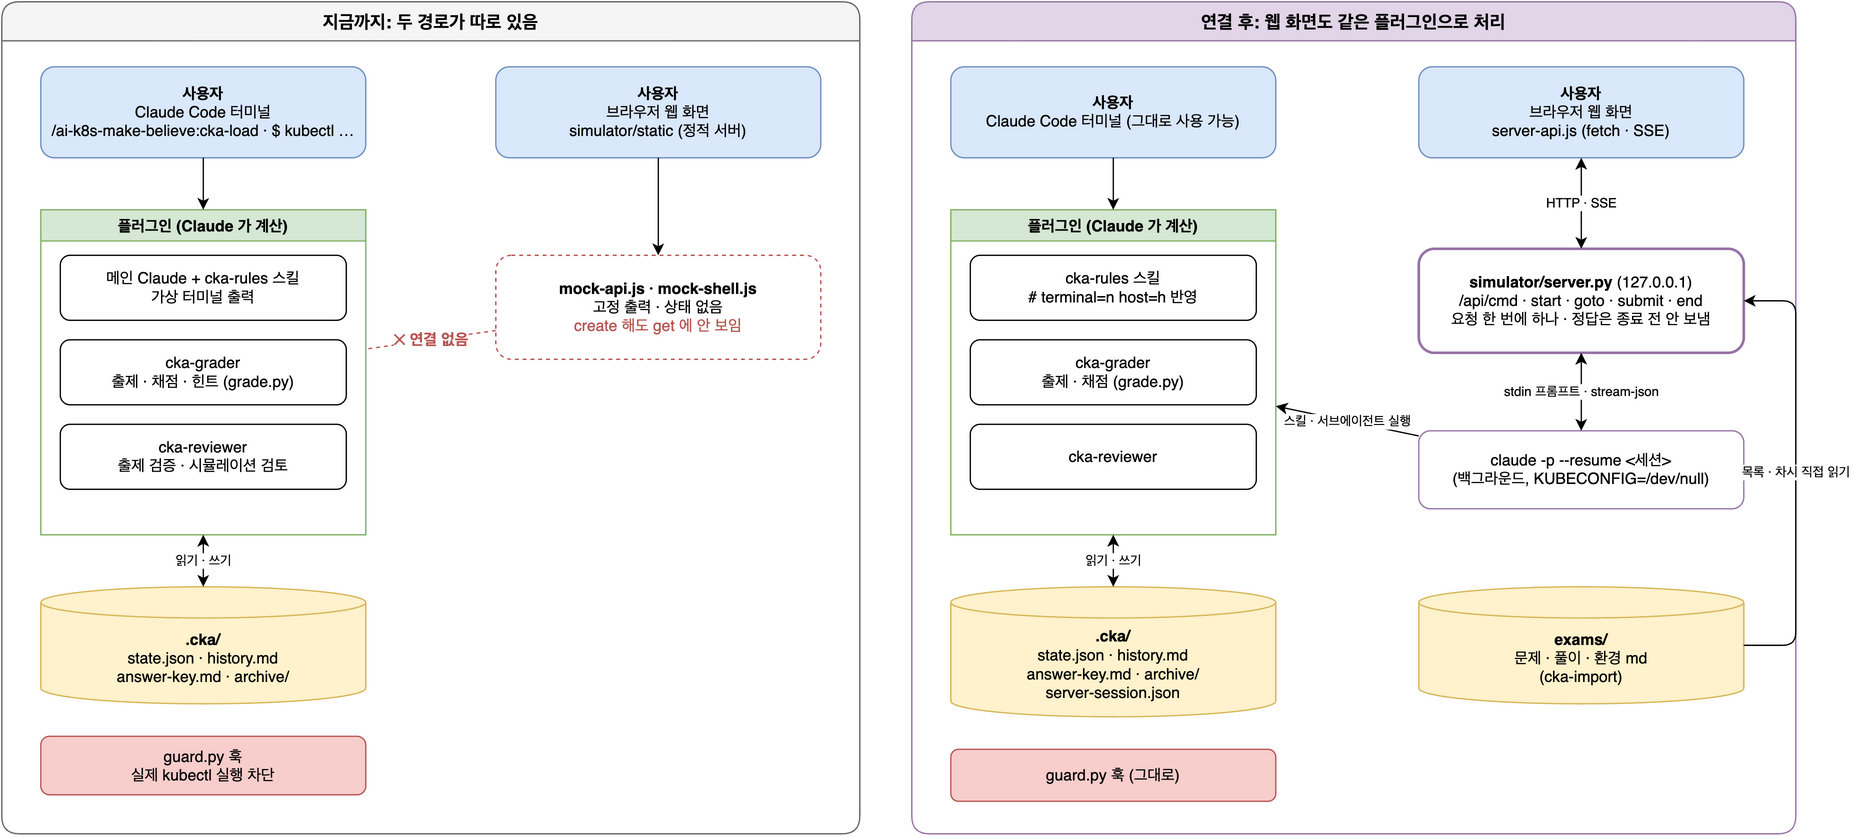
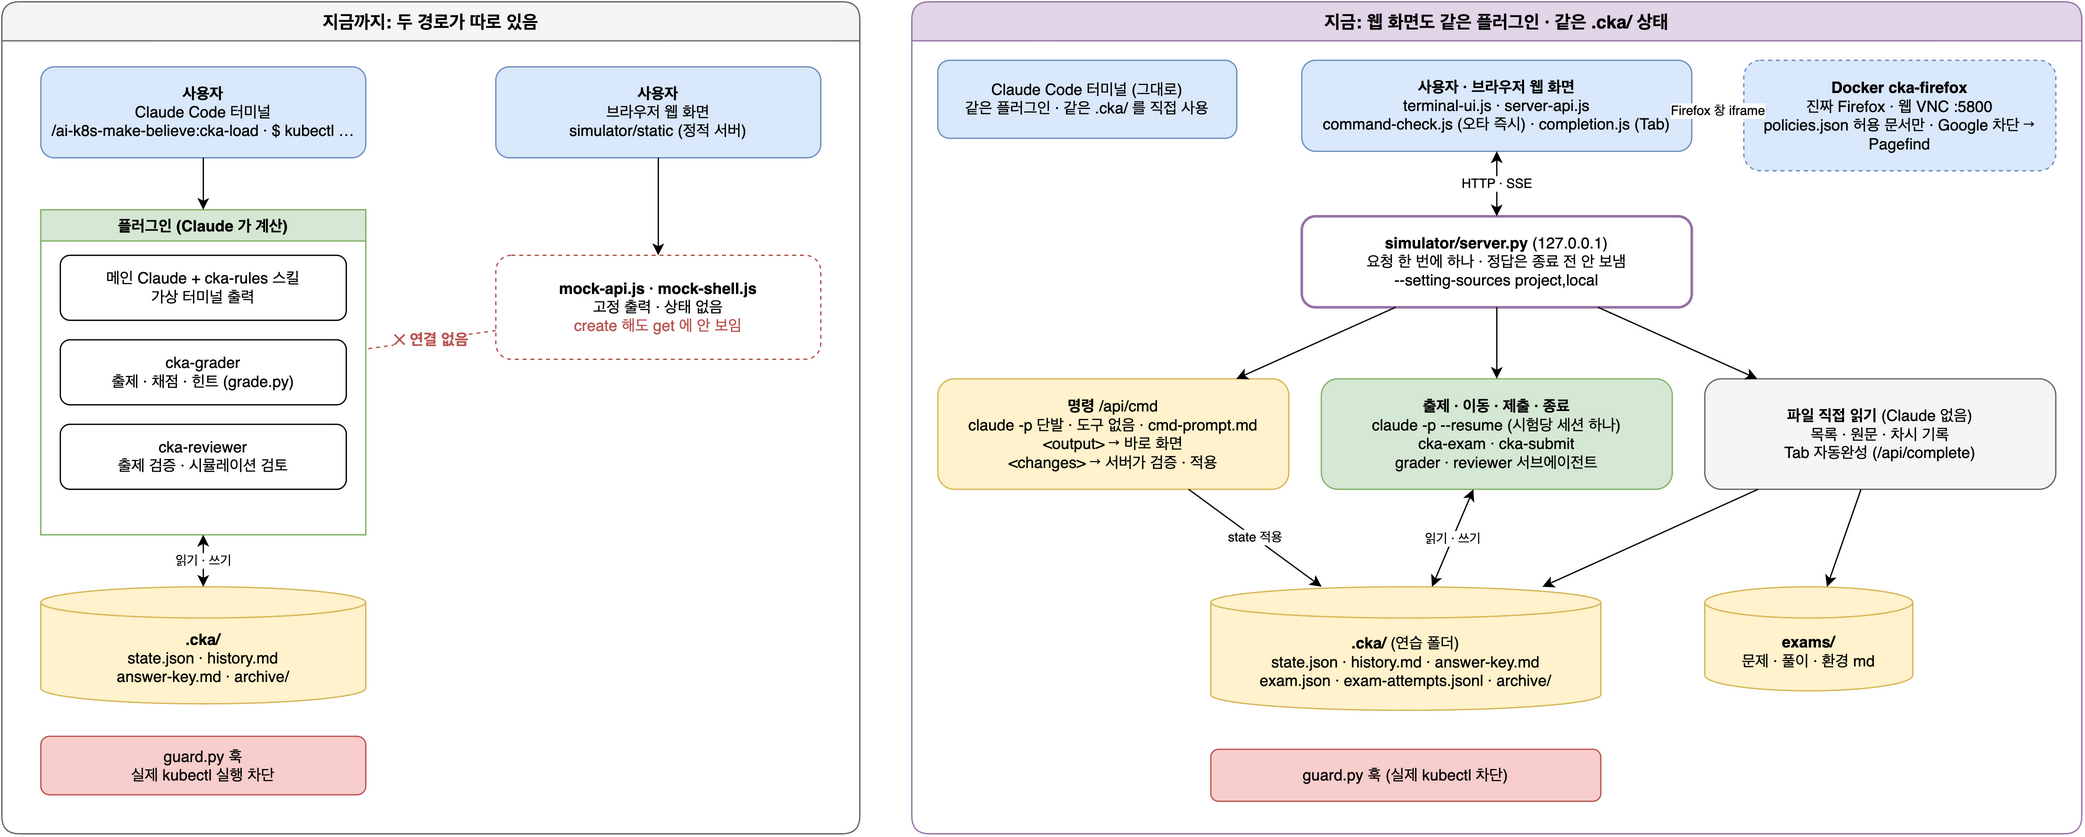
UIUX.md · 아키텍처 그림을 지금 구현에 맞춤
- UIUX.md: 컨셉(실제 시험 화면 재현 · 원칙), 구조(mermaid · API 표), 터미널(같은 줄 프롬프트 · 이어 쓰기 · 자동완성 · 단축키 표),
  Firefox 스트리밍 모드, 시작 화면. 이제 사실이 아닌 문장(서버 · Claude 연동 없음 등)을 고치고 목업 전용 내용은 "정적 목업 모드"로 구분
- docs/architecture: 지금 구조(명령 단발 호출, 플러그인 세션, 파일 직접 읽기, Docker Firefox)
- server.py 머리 설명을 단발 명령 처리와 --browser-url 에 맞춤

diff --git a/simulator/server.py b/simulator/server.py
@@ -1,11 +1,12 @@
 #!/usr/bin/env python3
 """시뮬레이터 웹 화면의 실서버: simulator/static 을 열고, UIUX.md 의 API 를 백그라운드 Claude Code 세션으로 처리한다.
 
-명령·출제·이동·제출·종료는 연습 폴더를 cwd 로 `claude -p --plugin-dir <repo>` 를 실행해 플러그인 커맨드로 보낸다.
-세션은 시험 하나에 하나(--resume)이고, 요청은 한 번에 하나만 처리한다. 127.0.0.1 에만 연다.
+명령(/api/cmd)은 `claude -p` 단발 호출(도구 없음, cmd-prompt.md)로 출력과 상태 변경을 받고, 서버가 state.json 에 적용한다.
+출제·이동·제출·종료는 연습 폴더를 cwd 로 `claude -p --plugin-dir <repo> --resume` 플러그인 세션(시험 하나에 하나)으로 보낸다.
+요청은 한 번에 하나만 처리한다. 127.0.0.1 에만 연다. 사용자 전역 설정은 읽지 않는다(--setting-sources project,local).
 풀이(<name>.answers.md)와 환경(<name>.setup.md), answer-key 는 시험이 끝나기 전에 브라우저로 보내지 않는다.
 
-Usage: server.py [--practice ~/cka-practice] [--port 8765] [--model sonnet] | --selftest
+Usage: server.py [--practice ~/cka-practice] [--port 8765] [--model sonnet] [--browser-url http://127.0.0.1:5800/] | --selftest
 표준 라이브러리만 사용한다.
 """
 import argparse
